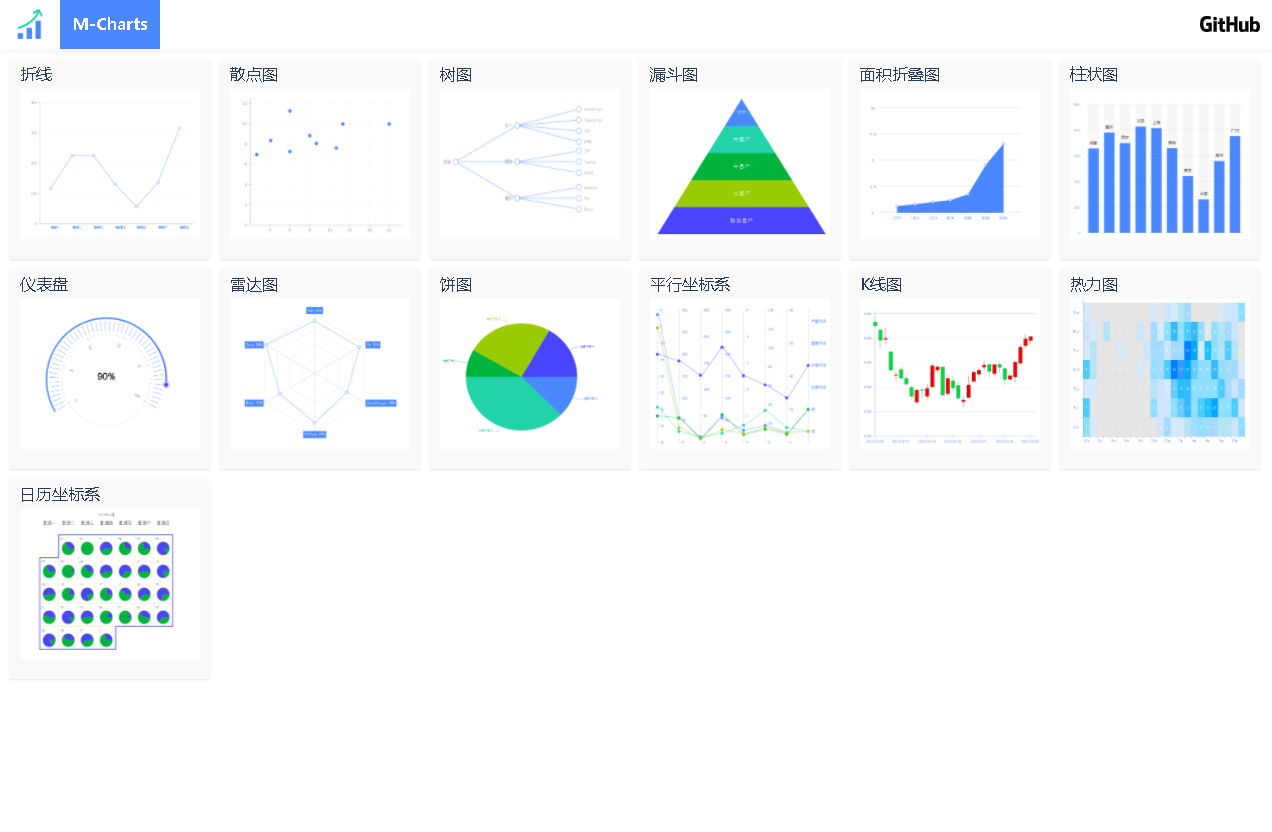
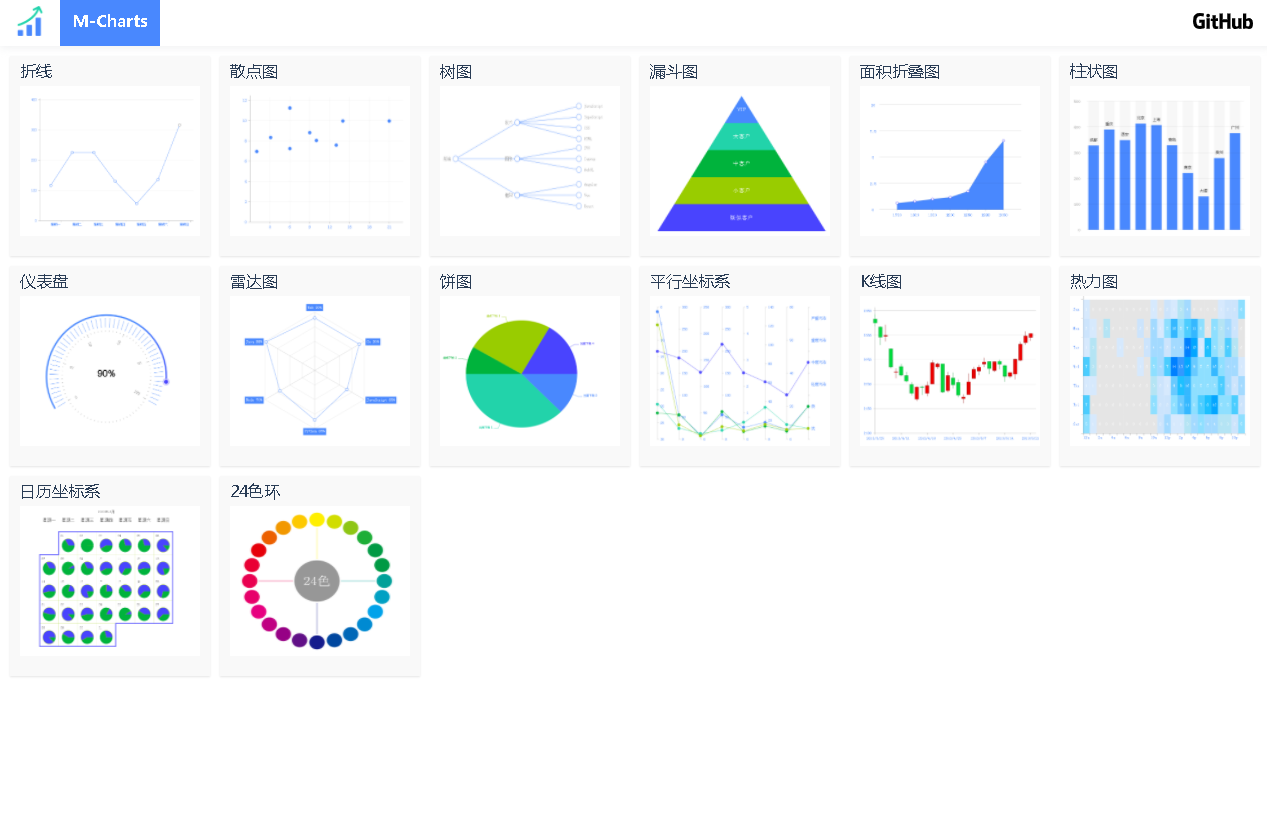
update

diff --git a/src/charts/shape/ring/ring.tsx b/src/charts/shape/ring/ring.tsx
@@ -1,0 +1,125 @@
+
+import * as React from 'react';
+import CanvasComponent from '../../comps/canvas';
+import "./ring.scss";
+
+class RingComponent extends React.Component {
+    canvas:any;
+    ctx:any;
+    clientRect:any;
+    config: any;
+    data:any[];
+    colsArr:any[];
+    constructor(props:any) {
+        super(props);
+    }
+
+    componentDidMount() {
+        this.initData();
+        this.initCanvas();
+        this.initDraw();
+    }
+
+    initData() {
+        this.config = {
+            RADIUS: 180, // 圆饼半径
+            INNTER_RADIUS: 60, // 内部圆的半径
+            RADIUS_VAL: 20, // 小圆半径
+            COORDINATE_X:250, // x坐标
+            COORDINATE_Y:250, // y坐标
+            NUMS:75,
+            START_ANGLE:0 ,// 起始角度
+        }
+        this.data = [
+            '#00A099',
+            '#00A0C3',
+            '#00A2EA',
+            '#008AD2',
+            '#0067B7',
+            '#00479F',
+            '#141B8C',
+
+            '#611087',
+            '#960185',
+            '#C00082',
+            '#E70080',
+            '#E7006A',
+            '#E90050',
+            '#E90034',
+            
+            '#E6000a',
+            '#EC6000',
+            '#F29800',
+            '#FDC900',
+            '#FFEF00',
+            
+            '#D1DD00',
+            '#8EC614',
+            '#1DAE37',
+            '#009A44',
+            '#009A44'
+        ]
+    }
+
+    initCanvas() {
+        this.canvas = document.getElementById('canvas');
+        if(!this.canvas) return;
+        this.ctx = this.canvas.getContext('2d');
+        this.clientRect = this.canvas.getBoundingClientRect();
+    }
+
+    componentWillUnmount() {
+
+    }
+    
+    initDraw() {
+        let ctx = this.ctx;
+        ctx.beginPath();
+        ctx.save();
+        ctx.translate(this.config.COORDINATE_X,this.config.COORDINATE_Y);
+        let len = this.data.length;
+        let _angle = 2*Math.PI / len;
+
+        for(let i=0;i<len;i++) {
+            let cols = this.data[i];
+            ctx.beginPath();
+            ctx.fillStyle = cols;
+            ctx.strokeStyle = cols;
+            let angle = _angle * i;
+            let _x =  (this.config.RADIUS )* Math.cos(angle);
+            let _y = (this.config.RADIUS )* Math.sin(angle);
+            ctx.arc(_x, _y,this.config.RADIUS_VAL,0,2*Math.PI);
+            ctx.stroke();
+            ctx.fill();
+        }
+
+        // 绘制指针
+        for(let i=0;i<4;i++) {
+            ctx.beginPath();
+            ctx.lineWidth = 1;
+            ctx.strokeStyle = this.data[i * 6];
+            ctx.moveTo(this.config.INNTER_RADIUS + this.config.RADIUS_VAL * 0.2 ,0);
+            ctx.lineTo(this.config.RADIUS - this.config.RADIUS_VAL * 1.2, 0);
+            ctx.rotate(2 / 4 * Math.PI);
+            ctx.stroke();    
+        }
+
+        // 绘制文字
+        ctx.beginPath();
+        ctx.fillStyle = '#979797';
+        ctx.strokeStyle = '#979797';
+        ctx.arc(0,0,this.config.INNTER_RADIUS,0,2*Math.PI);
+        ctx.stroke();
+        ctx.fill();
+        this.ctx.fillStyle = 'white';
+        this.ctx.font = "36px serif";
+        this.ctx.textBaseline = 'middle';
+        this.ctx.textAlign = 'center';
+        this.ctx.fillText('24色', 0,0 );
+    }
+   
+    render() {
+        return <><CanvasComponent/></>
+    }
+}
+export default RingComponent;

diff --git a/src/pages/charts-list/charts-list.tsx b/src/pages/charts-list/charts-list.tsx
@@ -14,7 +14,8 @@ let imgTree = require('./../../assets/imgs/shape/tree.png');
 let imgCandlestick = require('./../../assets/imgs/shape/candlestick.png');
 let imgAreaStartk = require('./../../assets/imgs/shape/area-stacked.png');
 let imgHeatmapCartesian = require('./../../assets/imgs/shape/heatmap-cartesian.png');
-let imgCalendarCharts = require('./../../assets/imgs/shape/calendarCharts.png')
+let imgCalendarCharts = require('./../../assets/imgs/shape/calendarCharts.png');
+let imgRingCharts = require('./../../assets/imgs/shape/ring.png');
 
 class ChartsList extends React.Component<{}, object>  {
     charts:any[] = [
@@ -83,6 +84,11 @@ class ChartsList extends React.Component<{}, object>  {
             name:'日历坐标系',
             type:'calendarCharts',
             thumbnail: imgCalendarCharts
+        },
+        {
+            name:'24色环',
+            type:'ring',
+            thumbnail: imgRingCharts          
         }
        
     ]

diff --git a/src/charts/shape/index.js b/src/charts/shape/index.js
@@ -11,6 +11,7 @@ import CandlestickComponent from './candlestick/candlestick';
 import AreaStackedComponent from './area-stacked/area-stacked';
 import HeatmapCartesianComponent from './heatmap-cartesian/heatmap-cartesian';
 import CalendarChartsComponent from './calendar-charts/calendar-charts';
+import RingComponent from './ring/ring';
 
 export { 
     PieComponent, // 饼图
@@ -25,5 +26,6 @@ export {
     CandlestickComponent,  // 面积折叠图
     AreaStackedComponent, // 面积折叠图
     HeatmapCartesianComponent, // 热力图
-    CalendarChartsComponent // 日历坐标系
+    CalendarChartsComponent, // 日历坐标系
+    RingComponent //色环
 }

diff --git a/src/pages/charts-view/charts-view.tsx b/src/pages/charts-view/charts-view.tsx
@@ -18,7 +18,8 @@ import {
     CandlestickComponent,
     AreaStackedComponent,
     HeatmapCartesianComponent,
-    CalendarChartsComponent 
+    CalendarChartsComponent,
+    RingComponent 
 } from './../../charts/shape/index';
 
 interface MProps {}
@@ -76,6 +77,9 @@ class ChartsView extends React.Component<ChartsProps, MState> {
             case 'calendarCharts':
                 chartComp = <CalendarChartsComponent/>
                 break;    
+            case 'ring':
+                chartComp = <RingComponent/>
+                break;
             default:
                 chartComp = <NoMatch/>
                 break;

diff --git a/src/charts/shape/heatmap-cartesian/heatmap-cartesian.tsx b/src/charts/shape/heatmap-cartesian/heatmap-cartesian.tsx
@@ -19,14 +19,11 @@ class HeatmapCartesianComponent extends React.Component {
         'rgb(180, 228, 244)',
         'rgba(163,218,255,1)',
         'rgba(30,192,255,0.5)',
-
-
         'rgba(30,192,255,0.5)',
         'rgba(30,192,255,0.8)',
         'rgba(30,192,255,1)',
         'rgba(3,166,255,0.6)',
         'rgba(3,166,255,0.8)',
-
         'rgba(3,166,255,0.8)',
         'rgba(3,166,255,1)',
         'rgba(0,128,255,0.8)',

diff --git a/webpack.dev.conf.js b/webpack.dev.conf.js
@@ -7,6 +7,9 @@ module.exports = {
     app:'./src/index.tsx',
     vendor: ['react', 'react-dom']
   },
+  optimization:{
+
+  },
   output: {
     path: path.resolve(__dirname, 'dist'),
     publicPath:'',

diff --git a/README.md b/README.md
@@ -38,7 +38,7 @@ npm run dev
 11. K线图
 12. 热力图
 13. 日历坐标系
-
+14. 24色环
 ## TODO List 
 
 - 实现基础Chart Demo展示(Doing) 
